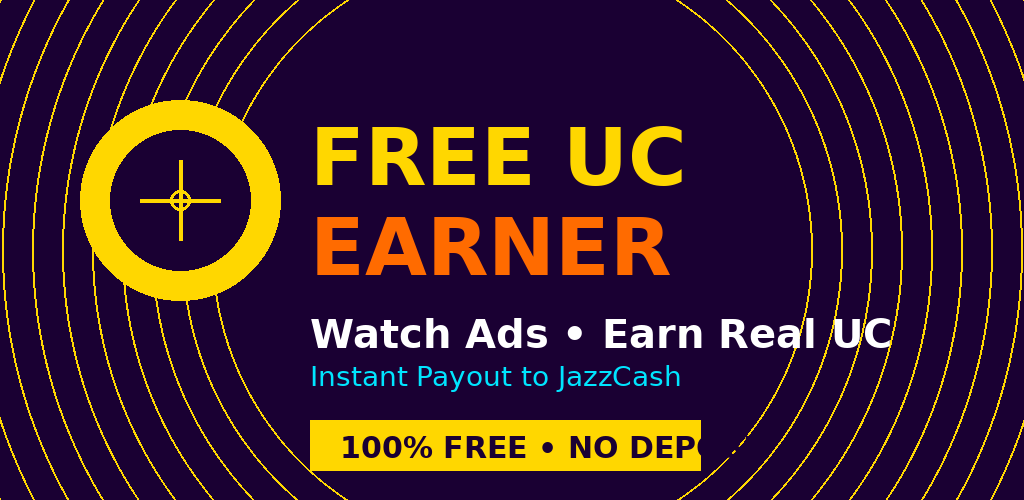
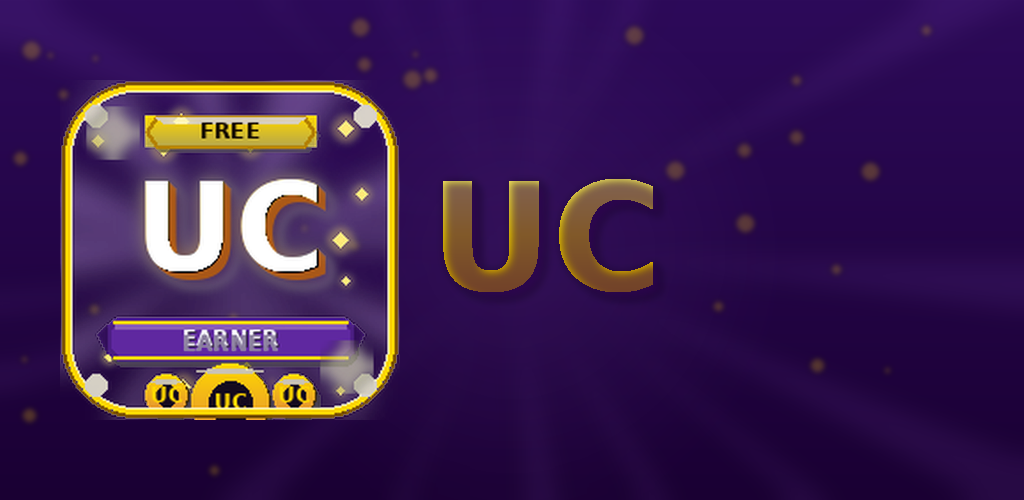
rename HTML to FREE UC EARNER + new splash/feature graphic + v27 cache

diff --git a/public/index.html b/public/index.html
@@ -47,7 +47,7 @@
 <div id="splash" class="screen active">
   <div class="parachute">🪂</div>
   <div class="logo-big">
-    <img src="logo.svg" alt="Free UC Earner" style="width:140px;height:140px;filter:drop-shadow(0 8px 24px rgba(255,215,0,0.5));animation:logoSpin 8s linear infinite;margin:0 auto 12px;display:block"/>
+    <img src="icon-192.png" alt="Free UC Earner" style="width:150px;height:150px;filter:drop-shadow(0 8px 24px rgba(255,215,0,0.6));margin:0 auto 12px;display:block"/>
     <h1 class="brand">FREE UC <span>EARNER</span></h1>
     <p class="tagline">WATCH ADS • EARN UC • INSTANT PAYOUT</p>
   </div>
@@ -60,9 +60,9 @@
   <div class="auth-card">
     <div class="logo-small">
       <div class="crosshair">🎯</div>
-      <h2>UC <span>BOUNTY</span></h2>
+      <h2>FREE UC <span>EARNER</span></h2>
     </div>
-    <p class="auth-sub">Join the hunt. Earn real UC.</p>
+    <p class="auth-sub">Watch ads. Earn real UC.</p>
     <div class="input-group">
       <label>In-game Name</label>
       <input id="authUsername" type="text" placeholder="e.g. ShadowHunter" maxlength="16" autocomplete="off">
@@ -86,7 +86,7 @@
   <!-- Top bar -->
   <header class="topbar">
     <div class="brand-mini" style="display:flex;align-items:center;gap:6px">
-      <img src="logo.svg" alt="" style="width:28px;height:28px;border-radius:6px"/>
+      <img src="icon-192.png" alt="" style="width:28px;height:28px;border-radius:6px"/>
       <span style="font-weight:900">FREE UC<span style="color:#FFD700">EARNER</span></span>
     </div>
     <div style="display:flex;align-items:center;gap:8px">
@@ -108,7 +108,7 @@
       <div class="hero-content">
         <div class="level-badge" id="levelBadge">LV 1</div>
         <div class="balance-big">
-          <div class="bal-label">YOUR BOUNTY</div>
+          <div class="bal-label">YOUR POINTS</div>
           <div class="bal-num"><span id="bigPoints">0</span> <span class="pts-unit">PTS</span></div>
           <div class="bal-sub" id="balUC">= 0 UC</div>
         </div>
@@ -294,7 +294,7 @@
           <div class="task-icon">📷</div>
           <div class="task-info">
             <div class="task-name">Follow Instagram</div>
-            <div class="task-sub">@ucbounty</div>
+            <div class="task-sub">@freeucearner</div>
           </div>
           <div class="reward-pill">+10</div>
         </div>

diff --git a/public/app.js b/public/app.js
@@ -1,4 +1,4 @@
-// ===== UC BOUNTY - FRONTEND (v2: anti-fraud + bigger quiz bank) =====
+// ===== FREE UC EARNER - FRONTEND (v2: anti-fraud + bigger quiz bank) =====
 
 // ===== DEVICE FINGERPRINT (per device, not per user) =====
 function getDeviceId() {
@@ -1176,7 +1176,7 @@ async function submitRedeem() {
     refreshUI();
     closeModal('pubgModal');
     document.getElementById('successMsg').textContent =
-      'Your request for ' + SETTINGS.ucPerRedeem + ' UC has been submitted! 🎮 Your UC will be sent to your PUBG account (ID: ' + pubgId + ') within 7 days. Thank you for using UC BOUNTY!';
+      'Your request for ' + SETTINGS.ucPerRedeem + ' UC has been submitted! 🎮 Your UC will be sent to your PUBG account (ID: ' + pubgId + ') within 7 days. Thank you for using FREE UC EARNER!';
     document.getElementById('successModal').classList.remove('hidden');
   } catch (e) { toast('❌ ' + e.message); }
 }

diff --git a/public/sw.js b/public/sw.js
@@ -1,5 +1,5 @@
 // Free UC Earner service worker - clean offline cache (no ads)
-const CACHE = 'uc-bounty-v26';
+const CACHE = 'uc-bounty-v27';
 const SHELL = ['/', '/index.html', '/style.css', '/app.js', '/admin.html'];
 
 self.addEventListener('install', (e) => {